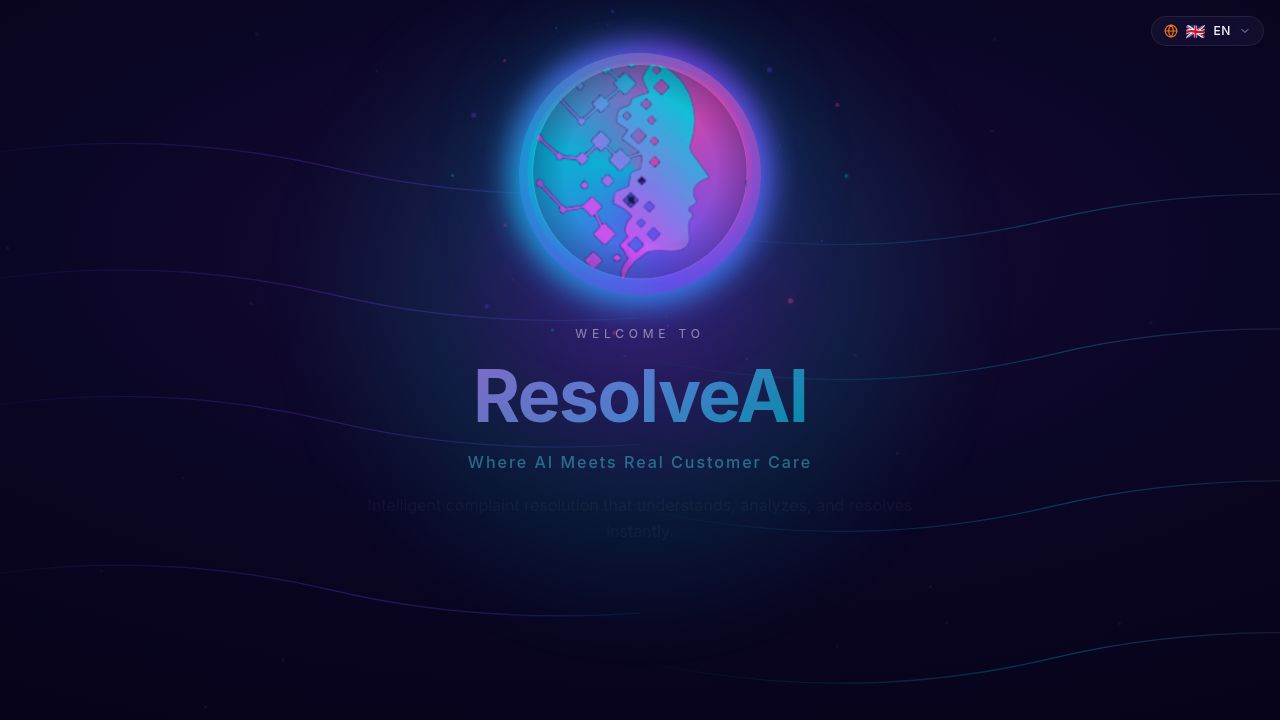
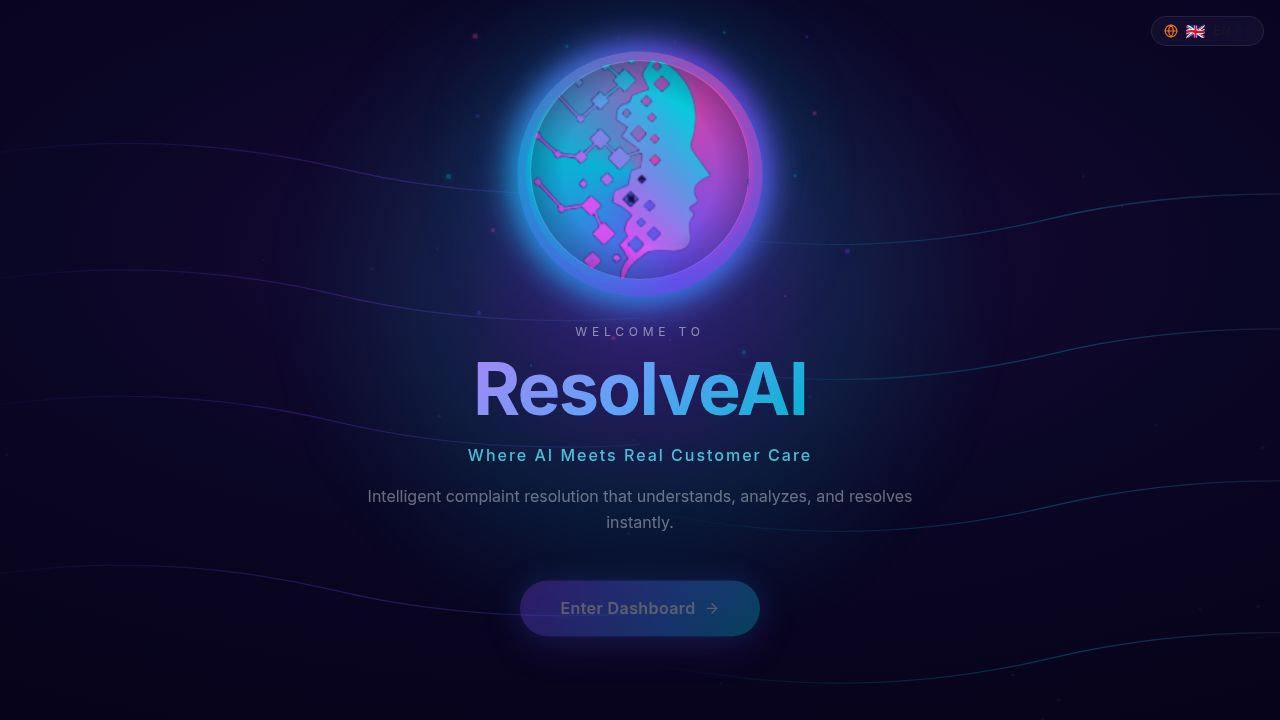
Add theme toggle to the splash page for easy theme switching
Integrates the ThemeToggle component into the splash page's header, alongside the LanguageSelector, by modifying `artifacts/resolveai/src/pages/splash.tsx`. This ensures theme switching is available from the initial load of the application. Also updates `pnpm-lock.yaml` to include dependencies for `artifacts/theme-app`.

Replit-Commit-Author: Agent
Replit-Commit-Session-Id: cf31ab56-f2e4-4e70-b845-4fbba322bdca
Replit-Commit-Checkpoint-Type: full_checkpoint
Replit-Commit-Event-Id: 1a48842a-ec2d-4581-8d13-a167b5146e0b
Replit-Commit-Screenshot-Url: https://storage.googleapis.com/screenshot-production-us-central1/326a08ad-76dc-42cf-8d09-c1f1250df507/cf31ab56-f2e4-4e70-b845-4fbba322bdca/cVriydg
Replit-Helium-Checkpoint-Created: true

diff --git a/artifacts/resolveai/src/pages/splash.tsx b/artifacts/resolveai/src/pages/splash.tsx
@@ -4,6 +4,7 @@ import { motion } from "framer-motion";
 import { ArrowRight, Zap, Brain, ShieldCheck, TrendingUp } from "lucide-react";
 import { useT } from "@/components/language-provider";
 import { LanguageSelector } from "@/components/language-selector";
+import { ThemeToggle } from "@/components/theme-toggle";
 
 export default function Splash() {
   const [, navigate] = useLocation();
@@ -141,8 +142,9 @@ export default function Splash() {
         ))}
       </div>
 
-      {/* Top right language switcher */}
-      <div className="absolute top-4 right-4 z-20">
+      {/* Top right language switcher + theme toggle */}
+      <div className="absolute top-4 right-4 z-20 flex items-center gap-2">
+        <ThemeToggle />
         <LanguageSelector />
       </div>
 
